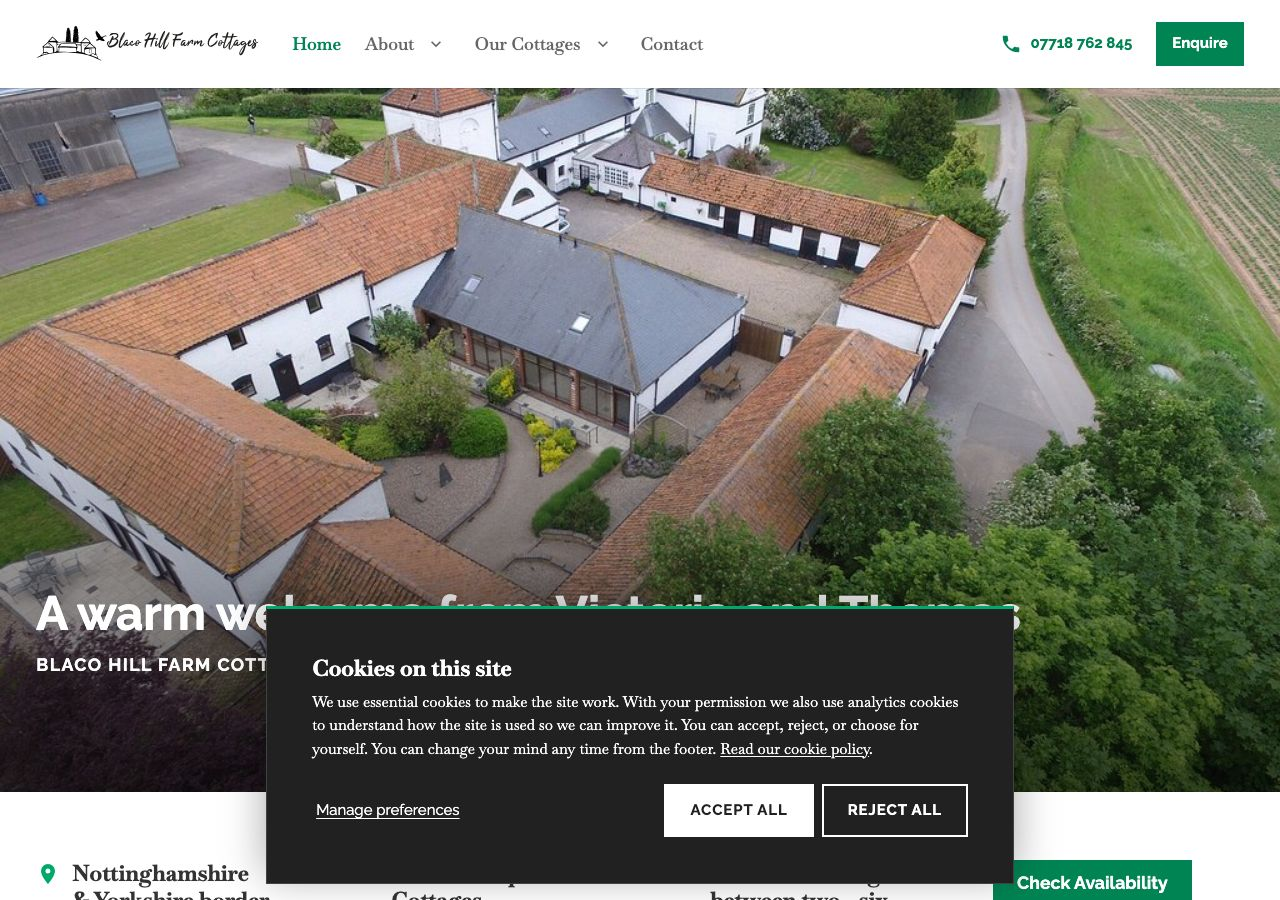
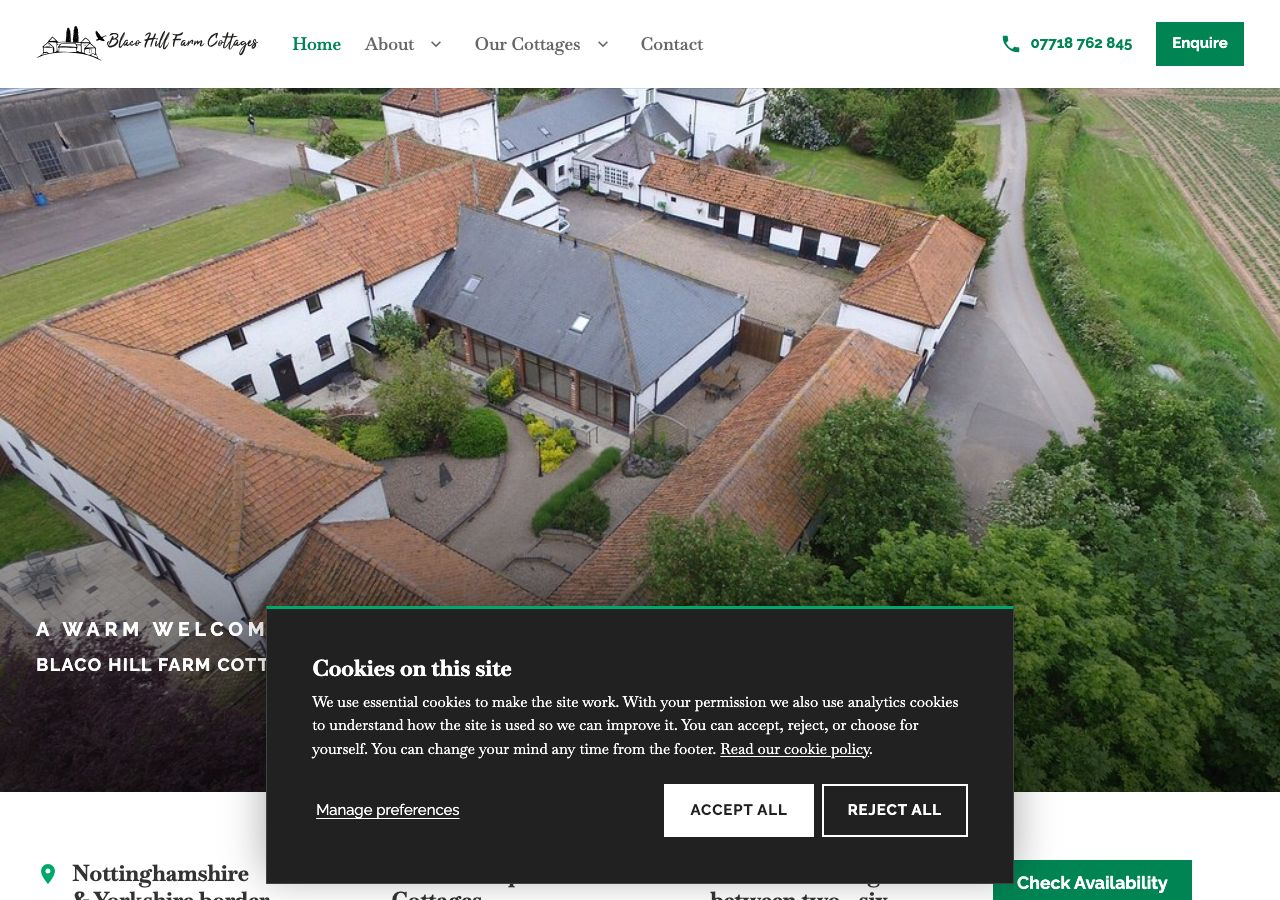
Match the home slide heading to live
Raleway bold, uppercase, 0.25em tracking (5px at 20px), line height
1.2 as on live. 20px at 1440px, 16px at 390px, and growing with the
root size above 1440px. Screenshots retaken.

diff --git a/app/components/blocks/Blocks.module.css b/app/components/blocks/Blocks.module.css
@@ -192,6 +192,16 @@
   font-size: var(--step-4);
 }
 
+/* Live home slide title: Raleway bold, uppercase, 20px with 5px tracking at
+   desktop. Here: 16px at 390px rising to 20px at 1440px, then growing with
+   the root size like every other size above 1440px. */
+.sliderTitle[data-font='sans'] {
+  font-size: clamp(1rem, 0.9071rem + 0.381vw, 1.25rem);
+  letter-spacing: 0.25em;
+  line-height: 1.2;
+  text-transform: uppercase;
+}
+
 .sliderSub {
   font-family: var(--font-sans);
   font-size: var(--step-0);
